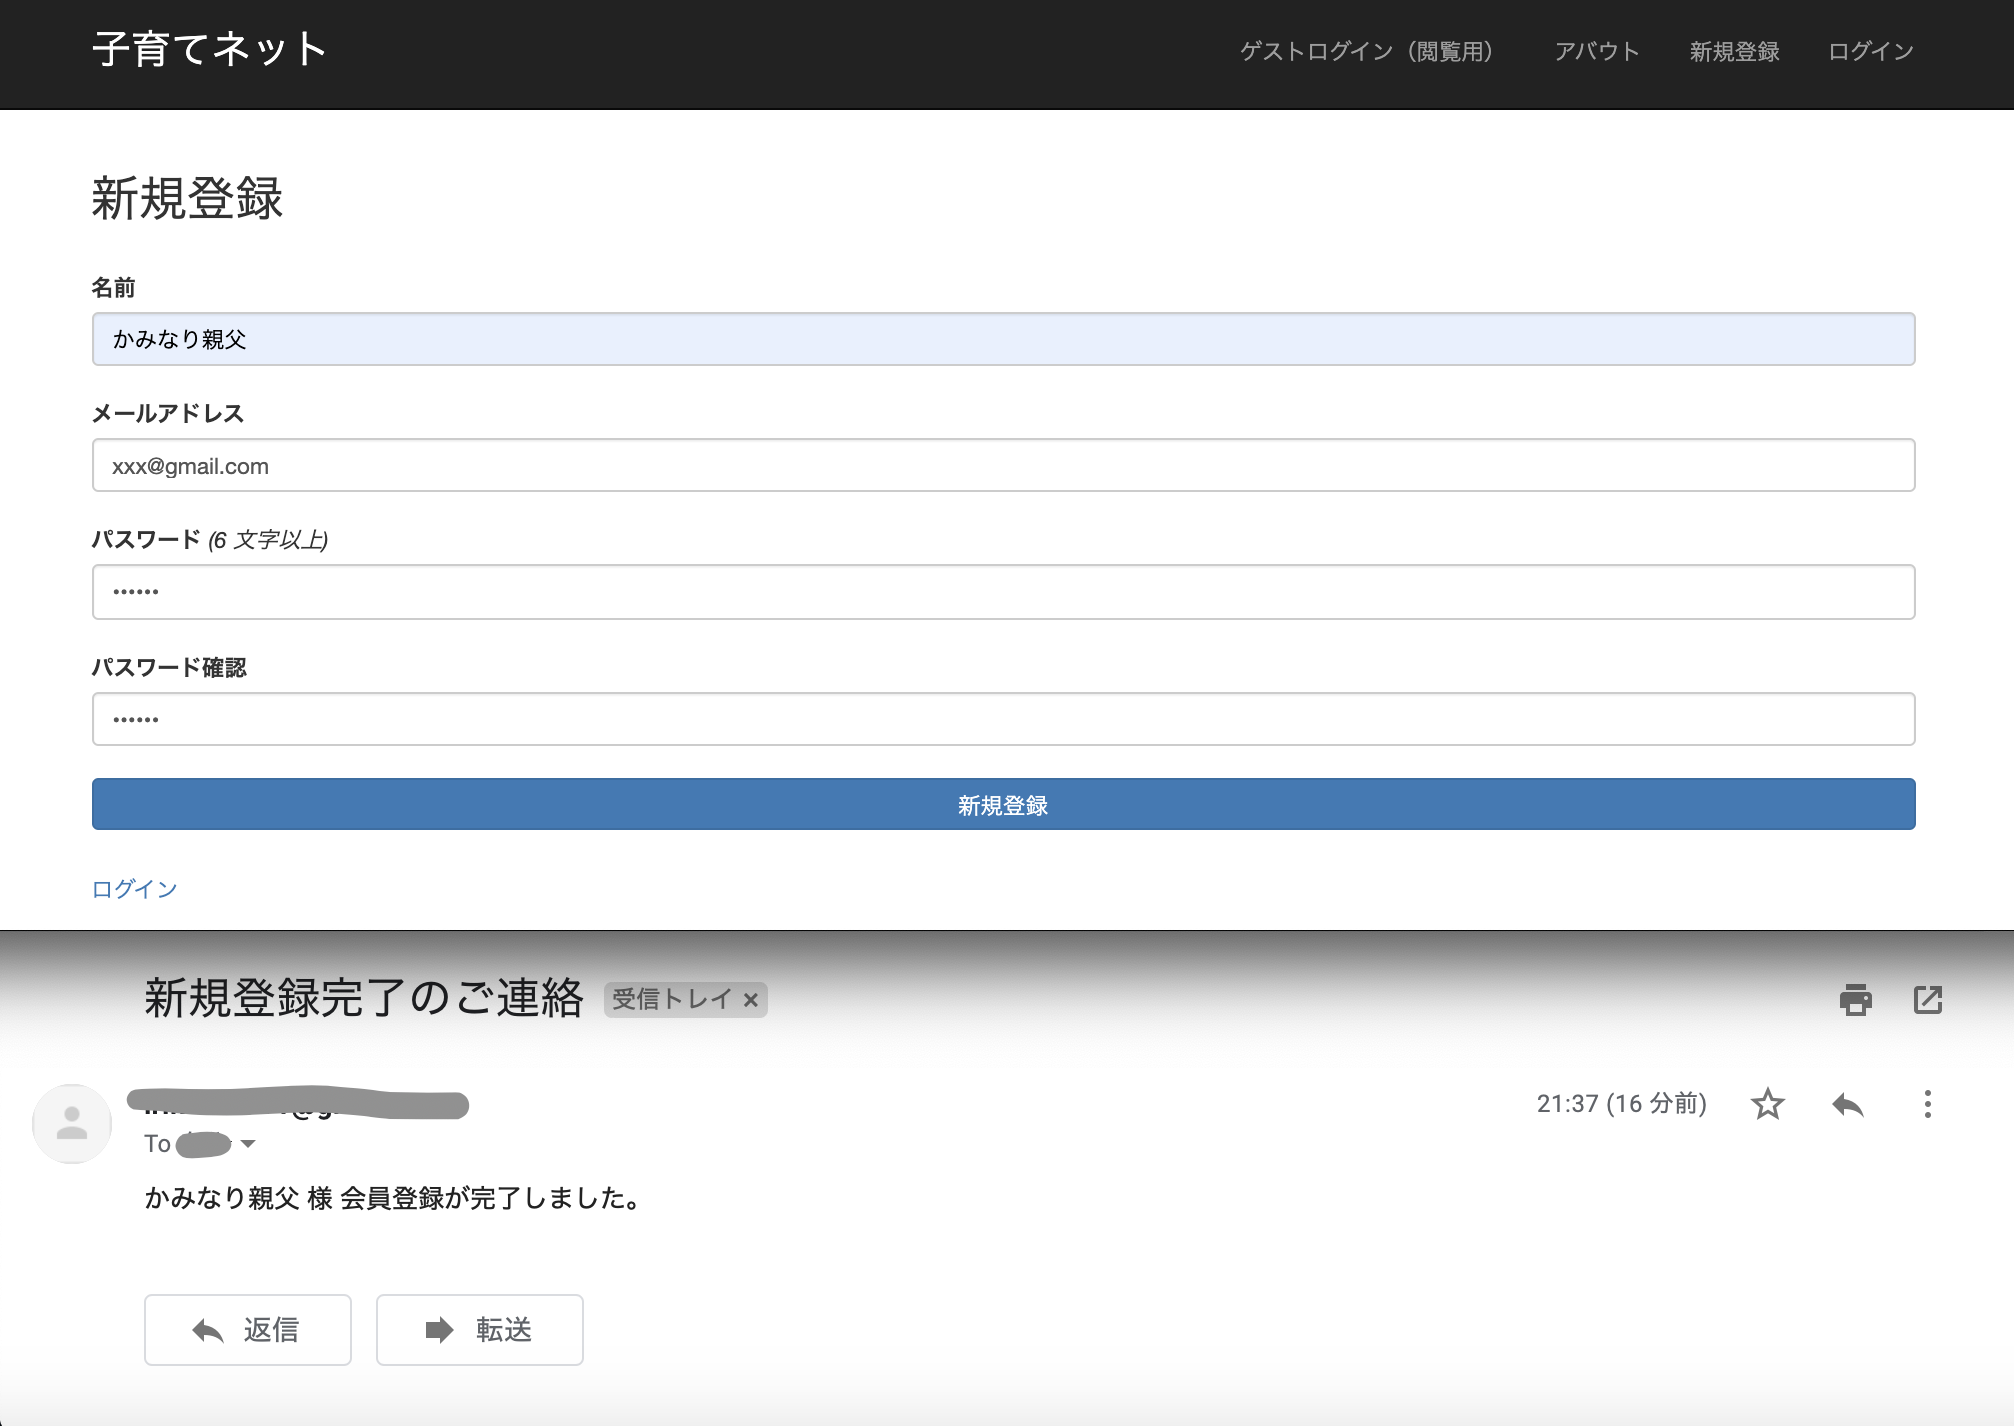
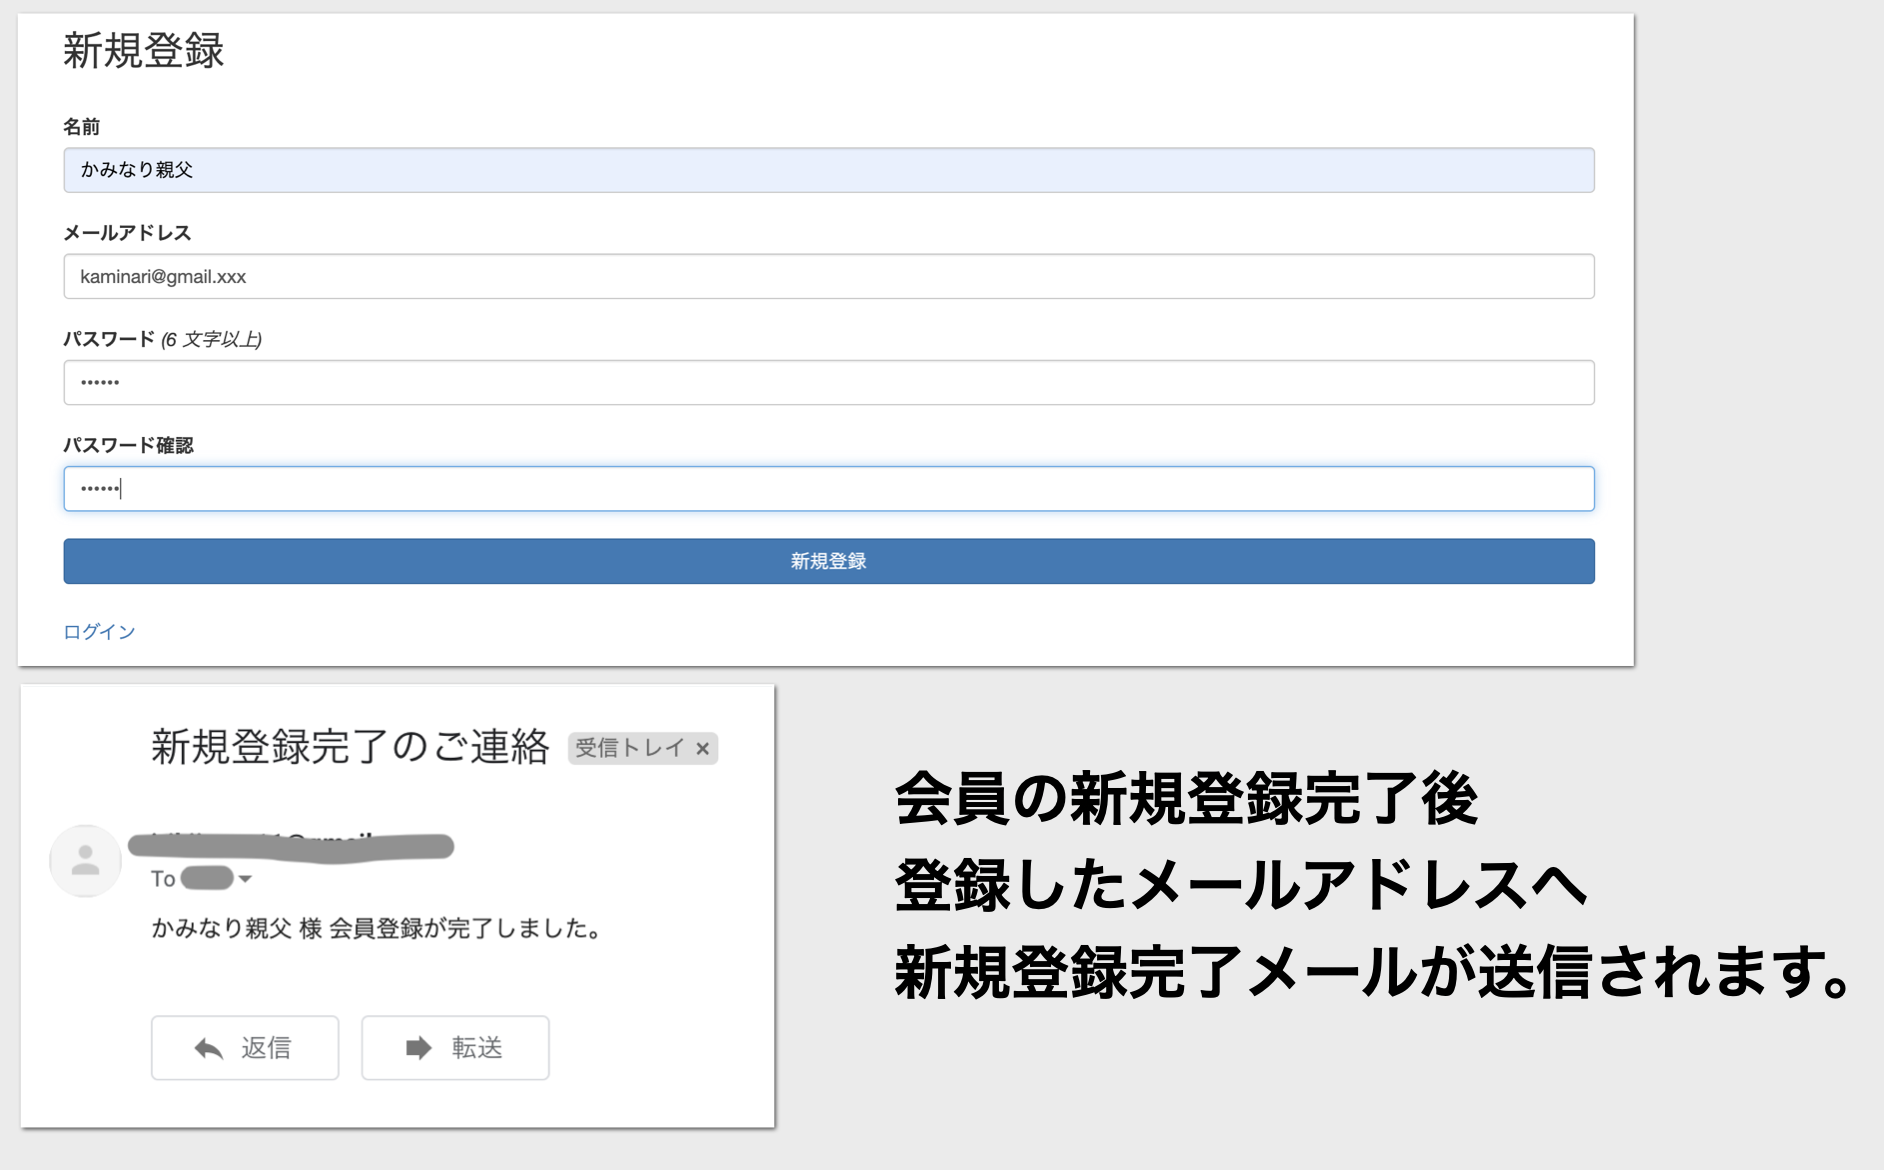
[fix] screenshot text in Readme

diff --git a/README.md b/README.md
@@ -3,22 +3,13 @@
 # 子育てネット
 
 ## サイト概要
-ご覧いただきありがとうございます。こちらは就職活動のためポートフォリオとして作成したSNS Web アプリケーションです。 (4月16日学習開始 / 7月15日公開)
+ご覧いただきありがとうございます。こちらは就職活動のためポートフォリオとして作成したSNSとQ&A両方の形式を組み合わせた Web アプリケーションです。 (4月16日学習開始 / 7月15日公開)
+<br>
 サイトへはこちらから(https://parenting-net-2.work/)
 
-子育ての楽しみや悩みを共有したり相談ができるサイトです。
-
-### サイトテーマ
-子供を育てている人の不安や孤独感を解消する
-
-### テーマを選んだ理由
-将来子供が授かれたとき、子育てしている人や経験者に相談や話ができるところがあれば助かると考えたからです。
-
-### ターゲットユーザ
-子供を育てる人・自分の経験を人の役に立てたいと思っている子育てや保育経験者
-
-### 主な利用シーン
-子育てで困ったことがあるとき、子育ての体験を共有したいとき
+## なぜ子育てネットを作ったか
+子育てネットは子育てに関する日常の共有や悩みの解決を目的とした　SNS + Q&A サイトです。
+現状、子育てに関するサイトは、SNS・Q&Aどちらかの形式が多いと考え、両方の形式を取り入れたサイトがあれば、より多くのユーザに使ってもらうことが可能になると考えました。
 
 ## 技術面
 ### 言語・環境等
@@ -44,15 +35,15 @@
 ## スクリーンショット
 
 ### ActionMailerを利用した新規登録完了メール
-<img width="1007" alt="mail" src="https://user-images.githubusercontent.com/63790886/90516685-51675e80-e19f-11ea-938e-b4dcf32099b9.png">
+<img width="942" alt="mail" src="https://user-images.githubusercontent.com/63790886/90583547-6679d700-e20b-11ea-8e44-c13fcdf07b63.png">
 
-### チャット＆通知機能
+### チャット(Gemを使わずに実装)＆通知機能
 ![chat](https://user-images.githubusercontent.com/63790886/90504521-2e7f7f00-e18c-11ea-8e95-2d3279e91080.gif)
 
-### レスポンシブ対応
-![image](https://user-images.githubusercontent.com/63790886/90508601-00516d80-e193-11ea-83a5-923f06b74687.png)
-
 ## 設計書
+
+### AWS構成図
+<img width="419" alt="aws" src="https://user-images.githubusercontent.com/63790886/90584272-39c6bf00-e20d-11ea-91e8-154877eea2e3.png">
 
 ### 機能一覧
 https://docs.google.com/spreadsheets/d/1LJX8CJAoy1UPZLBxU8R3bZ3ZLrB5h5Uk23fIBGNPHkA/edit?usp=sharing
